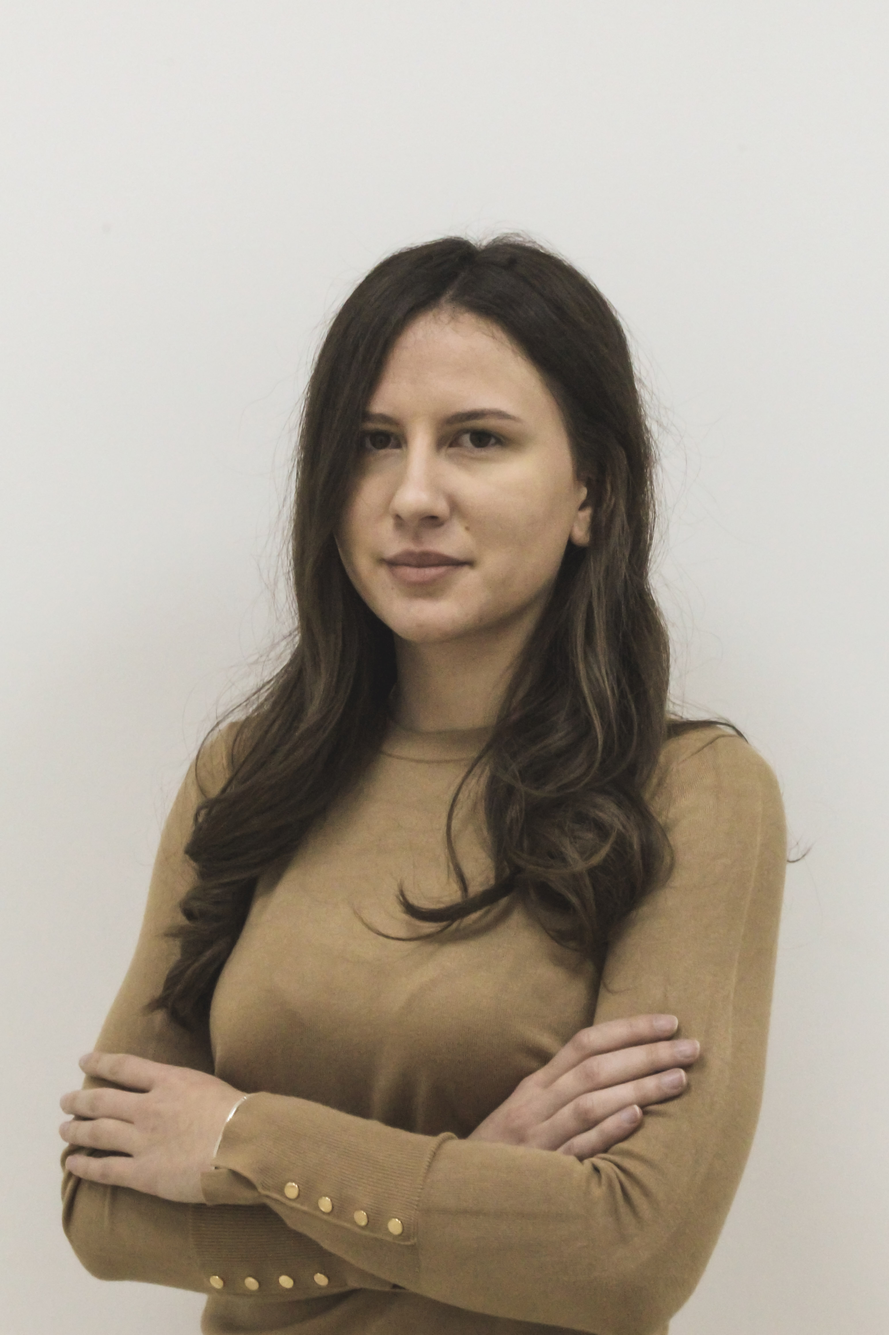
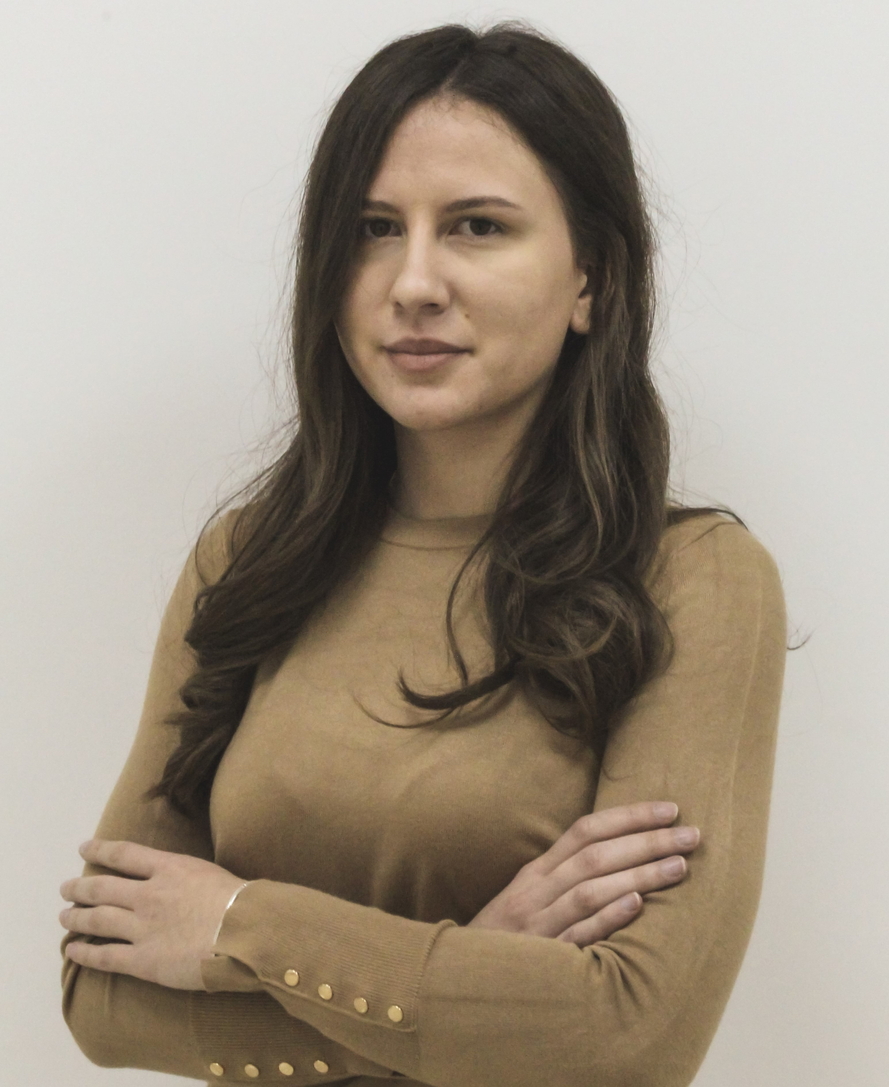
.

diff --git a/index.html b/index.html
@@ -790,7 +790,7 @@
                 <div class="col-lg-7">
                     <div class="team-container">
                         <div class="item wow fadeInUp" data-wow-delay=".3s">
-                            <div class="img wow imago" style="width: 92%;">
+                            <div class="img wow imago">
                                 <img class="team-img" src="img/team/marko.petrovic.jpg" alt="marko-petrovic">
                                 <div class="social">
                                     <a><i class="fab fa-twitter"></i></a>
@@ -823,7 +823,7 @@
                             </div>
                         </div>
                         <div class="item wow fadeInUp" data-wow-delay=".3s">
-                            <div class="img wow imago" style="width: 92%;">
+                            <div class="img wow imago">
                                 <img class="team-img" src="img/team/nina.turajlic.jpg" alt="">
                                 <div class="social">
                                     <a><i class="fab fa-twitter"></i></a>
@@ -907,17 +907,6 @@
                                 <!-- <span>Founder</span> -->
                             </div>
                         </div>
-                        <!-- <div class="item wow fadeInUp" data-wow-delay=".3s">
-                            <div class="img wow imago">
-                                <img src="img/team/olga-jejic.jpg" alt="olga-jejic">
-                                <div class="social">
-                                    <a href="https://www.linkedin.com/in/olga-jeji%C4%87-19b887177/" target="_blank"><i
-                                            class="fab fa-linkedin-in"></i></a>
-                                </div>
-                            </div>
-                            <div class="info">
-                                <h5>Олга Јејић</h5>
-                                <!-- <span>3D Visualization</span> -->
                     </div>
                 </div>
             </div>

diff --git a/about.html b/about.html
@@ -639,7 +639,7 @@
             </div>
             <div class="row">
                 <div class="item col-lg-3 col-md-6">
-                    <div class="img" style="width: 92%;">
+                    <div class="img">
                         <img class="team-img" src="img/team/marko.petrovic.jpg" alt="">
                         <div class="social">
                             <a><i class="fab fa-twitter"></i></a>
@@ -672,7 +672,7 @@
                     </div>
                 </div>
                 <div class="item col-lg-3 col-md-6">
-                    <div class="img" style="width: 92%;">
+                    <div class="img">
                         <img class="team-img" src="img/team/nina.turajlic.jpg" alt="">
                         <div class="social">
                             <a><i class="fab fa-twitter"></i></a>

diff --git a/css/style.css b/css/style.css
@@ -3486,6 +3486,8 @@ a, span {
 
 .team-img
 {
+  object-fit: cover;
+  height: 350px;
   border: 1px solid;
   border-radius: 35px;
   -webkit-box-shadow: 0 28px 16px -26px rgba(0, 0, 0);
